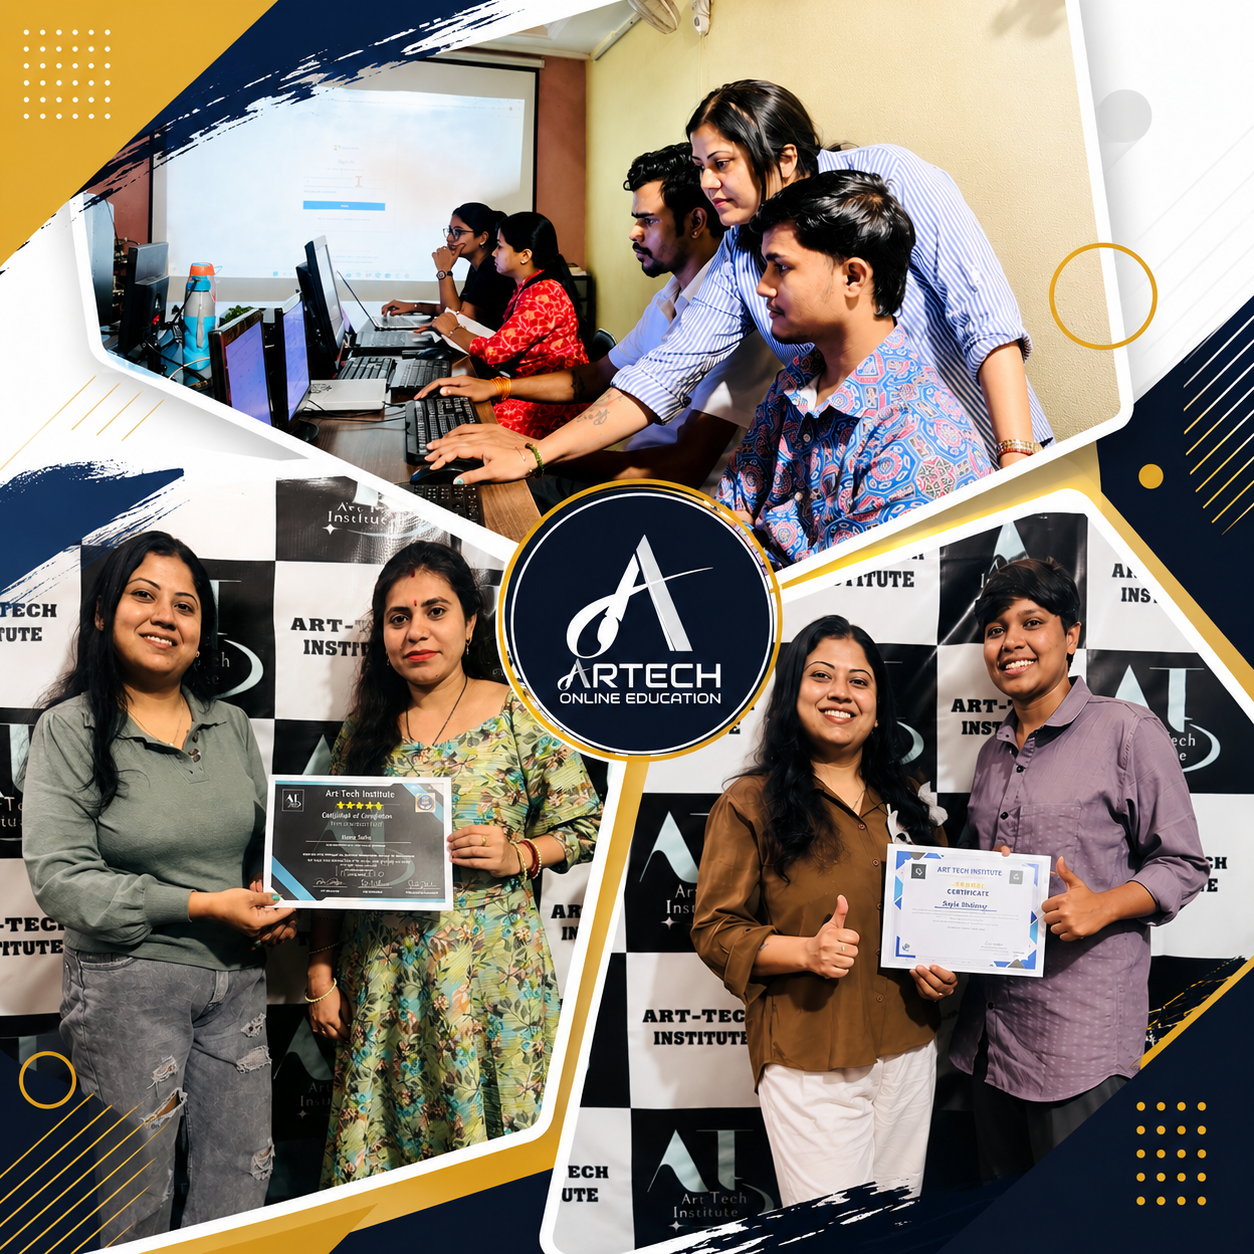
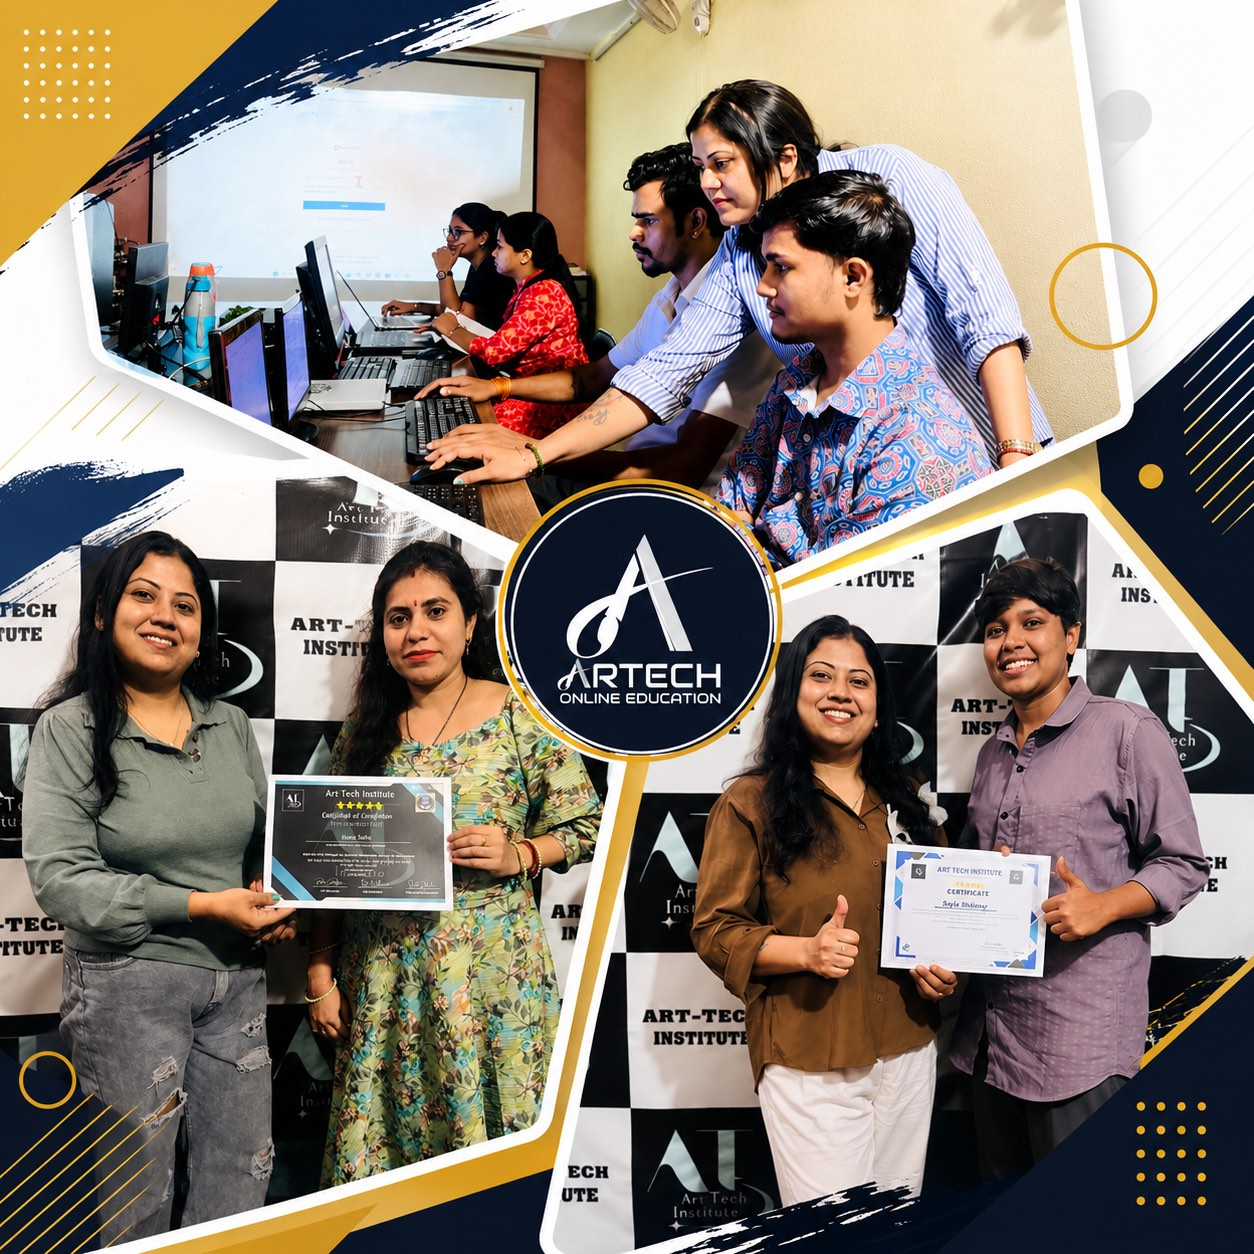
Make the site readable by search and answer engines
The design was fine; what was missing was everything that tells a machine what
this site is. In an era where people ask an assistant for a recommendation,
that is what decides whether the work is ever surfaced.

- sitemap.xml and robots.txt, generated from the same data as the pages, so
  new case studies appear in both without being listed twice
- JSON-LD: a Person with the real skills, contact and employer, the site
  itself, and the eight projects as a list. Each case study page carries its
  own Article record. Every claim mirrors what is already on screen
- Vercel Analytics: cookieless, around 1 KB, so there is finally a record of
  who arrives and from where
- arttech.jpg was 2.4 MB, eight times heavier than any other project image.
  Re-encoded at the same dimensions: 388 KB, no visible loss. public/ drops
  from 6.8 MB to 4.8 MB

diff --git a/components/seo/StructuredData.tsx b/components/seo/StructuredData.tsx
@@ -1,0 +1,66 @@
+import { profile, projects, skillGroups } from "@/lib/data";
+import { SITE_URL } from "@/lib/site";
+
+/** Machine-readable facts about who this is and what the work is.
+ *
+ *  Search engines use it for rich results, and the answer engines people now
+ *  ask for recommendations read it to decide what a site is about. Everything
+ *  here mirrors what the page already says: no claims that are not on screen. */
+export default function StructuredData() {
+  const graph = {
+    "@context": "https://schema.org",
+    "@graph": [
+      {
+        "@type": "Person",
+        "@id": `${SITE_URL}/#person`,
+        name: profile.name,
+        jobTitle: profile.role,
+        description: profile.tagline,
+        url: SITE_URL,
+        image: `${SITE_URL}/og.jpg`,
+        email: `mailto:${profile.email}`,
+        telephone: profile.phone,
+        address: {
+          "@type": "PostalAddress",
+          addressLocality: "Shamli",
+          addressRegion: "Uttar Pradesh",
+          addressCountry: "IN",
+        },
+        sameAs: [profile.socials.github, profile.socials.linkedin],
+        knowsAbout: skillGroups.flatMap((group) => group.skills),
+        worksFor: { "@type": "Organization", name: "Softles" },
+      },
+      {
+        "@type": "WebSite",
+        "@id": `${SITE_URL}/#website`,
+        url: SITE_URL,
+        name: `${profile.name} — ${profile.role}`,
+        inLanguage: "en",
+        publisher: { "@id": `${SITE_URL}/#person` },
+      },
+      {
+        "@type": "ItemList",
+        "@id": `${SITE_URL}/#work`,
+        name: "Selected work",
+        itemListElement: projects.map((project, i) => ({
+          "@type": "ListItem",
+          position: i + 1,
+          item: {
+            "@type": "WebSite",
+            name: project.title,
+            url: project.liveUrl,
+            description: project.result,
+          },
+        })),
+      },
+    ],
+  };
+
+  return (
+    <script
+      type="application/ld+json"
+      // The payload is built from our own data file, not from user input
+      dangerouslySetInnerHTML={{ __html: JSON.stringify(graph) }}
+    />
+  );
+}

diff --git a/app/work/[slug]/page.tsx b/app/work/[slug]/page.tsx
@@ -3,6 +3,7 @@ import Image from "next/image";
 import Link from "next/link";
 import { notFound } from "next/navigation";
 import { caseStudies, projects, slugify } from "@/lib/data";
+import { SITE_URL } from "@/lib/site";
 import Reveal from "@/components/effects/Reveal";
 import TextReveal from "@/components/effects/TextReveal";
 import SmoothScroll from "@/components/effects/SmoothScroll";
@@ -53,8 +54,26 @@ export default async function CaseStudyPage({ params }: Params) {
   const { study, project } = found;
   const others = caseStudies.filter((c) => c.slug !== slug);
 
+  // Each case study is an article in its own right, so it gets its own record
+  const caseSchema = {
+    "@context": "https://schema.org",
+    "@type": "Article",
+    headline: `${project.title} — ${project.subtitle}`,
+    description: study.context,
+    about: project.title,
+    author: { "@type": "Person", name: "Neeraj Kumar", url: SITE_URL },
+    publisher: { "@type": "Person", name: "Neeraj Kumar", url: SITE_URL },
+    mainEntityOfPage: `${SITE_URL}/work/${slug}`,
+    image: `${SITE_URL}${project.image}`,
+    keywords: project.tech.join(", "),
+  };
+
   return (
     <div className="p-grain min-h-screen">
+      <script
+        type="application/ld+json"
+        dangerouslySetInnerHTML={{ __html: JSON.stringify(caseSchema) }}
+      />
       <SmoothScroll />
       <ScrollProgress />
       <CursorFx />

diff --git a/app/layout.tsx b/app/layout.tsx
@@ -2,6 +2,8 @@ import type { Metadata } from "next";
 import { Playfair_Display, Inter, JetBrains_Mono } from "next/font/google";
 import Starfield from "@/components/effects/Starfield";
 import CloneNotice from "@/components/effects/CloneNotice";
+import StructuredData from "@/components/seo/StructuredData";
+import { Analytics } from "@vercel/analytics/next";
 import { SITE_URL } from "@/lib/site";
 import "./globals.css";
 
@@ -77,9 +79,12 @@ export default function RootLayout({
         <a href="#main" className="skip-link rounded-full bg-accent px-5 py-2.5 text-sm font-semibold text-on-accent">
           Skip to content
         </a>
+        <StructuredData />
         <Starfield />
         {children}
         <CloneNotice />
+        {/* Cookieless, no personal data, about 1 KB. Only reports on Vercel. */}
+        <Analytics />
       </body>
     </html>
   );

diff --git a/app/sitemap.ts b/app/sitemap.ts
@@ -1,0 +1,21 @@
+import type { MetadataRoute } from "next";
+import { caseStudies } from "@/lib/data";
+import { SITE_URL } from "@/lib/site";
+
+/** Served at /sitemap.xml. Lists every page worth indexing, so search engines
+ *  and the AI crawlers that read sitemaps find the case studies, not just the
+ *  home page. */
+export default function sitemap(): MetadataRoute.Sitemap {
+  const now = new Date();
+
+  return [
+    { url: SITE_URL, lastModified: now, changeFrequency: "monthly", priority: 1 },
+    { url: `${SITE_URL}/resume`, lastModified: now, changeFrequency: "monthly", priority: 0.8 },
+    ...caseStudies.map((study) => ({
+      url: `${SITE_URL}/work/${study.slug}`,
+      lastModified: now,
+      changeFrequency: "yearly" as const,
+      priority: 0.7,
+    })),
+  ];
+}

diff --git a/app/robots.ts b/app/robots.ts
@@ -1,0 +1,13 @@
+import type { MetadataRoute } from "next";
+import { SITE_URL } from "@/lib/site";
+
+/** Served at /robots.txt. Everything is open to crawlers, including the AI
+ *  ones: being read is the point. The watermark rule in middleware.ts is what
+ *  protects the images, not a robots block. */
+export default function robots(): MetadataRoute.Robots {
+  return {
+    rules: [{ userAgent: "*", allow: "/" }],
+    sitemap: `${SITE_URL}/sitemap.xml`,
+    host: SITE_URL,
+  };
+}

diff --git a/README.md b/README.md
@@ -200,3 +200,17 @@ Domain badlo to sirf **`lib/site.ts`** edit karna hai, baaki sab wahi se padhta 
 
 > Right click band karna ya devtools block karna jaan-bujhkar nahi kiya. Usse
 > recruiter pareshan hota hai aur copy karne wala rukta nahi.
+
+---
+
+## 9. SEO aur analytics
+
+| Cheez | Kahan | Kya karta hai |
+|---|---|---|
+| `sitemap.xml` | `app/sitemap.ts` | Home, resume aur teeno case studies ka naksha |
+| `robots.txt` | `app/robots.ts` | Sab crawlers allowed, sitemap ka pata |
+| JSON-LD | `components/seo/StructuredData.tsx` | Person, WebSite aur work list; case study pages par Article |
+| Analytics | `@vercel/analytics` in `app/layout.tsx` | Cookieless, ~1 KB, sirf Vercel par report karta hai |
+
+Local par `/_vercel/insights/script.js` ka 404 normal hai, wo file sirf Vercel
+par hoti hai.
